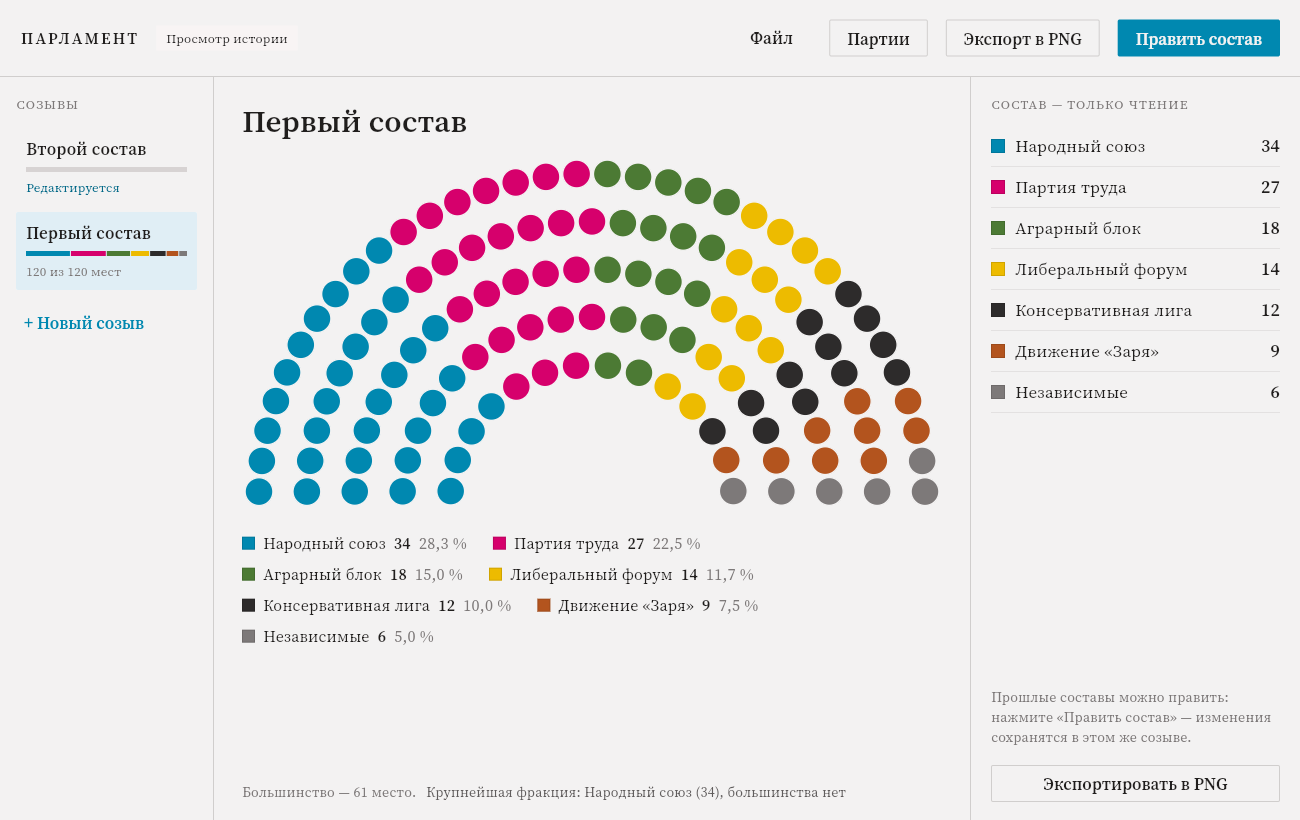
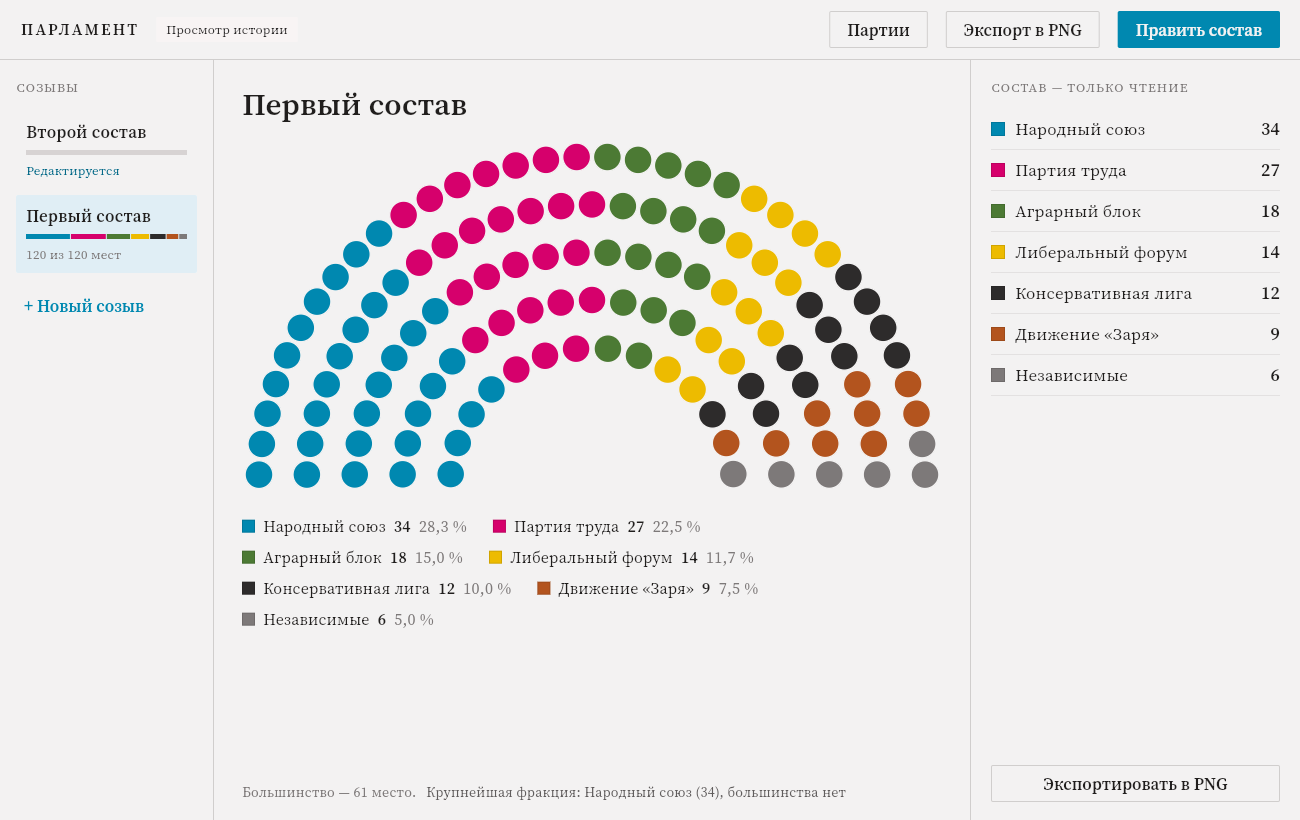
Убраны все поясняющие подписи и функционал «Файл» из шапки
По запросу: везде убраны серые подсказочные фразы, которые просто
повторяют словами то, что и так видно из интерфейса, а также вырезана
кнопка «Файл» (Новый проект / Открыть / Сохранить как).

Убрано:
- «Цвет и название обновляются во всех созывах, где партия участвует.»
  под заголовком справочника партий
- «Справочник пуст. Начните с 3–6 партий...» на пустом экране справочника
- «Прошлые составы можно править: нажмите «Править состав»...» в
  панели архивного созыва
- «Список появится после создания партий. Всего мест — N.» в пустой
  правой панели
- «Места пока не распределены — вся схема серая.» вместо легенды,
  когда распределения нет — теперь просто пусто
- «В этом созыве места не распределялись.» в архивной панели без мест
- хвост «— на схеме они серые» у заметки об остатке мест
- вводная фраза в диалоге фиксации созыва («Текущее распределение
  сохранится в истории...») — сводка и поле говорят сами за себя
- пример-подсказка в диалоге переименования
- половина объяснения в диалоге удаления партии (оставлена только
  фраза-заголовок перед списком затронутых созывов — сам список уже
  всё объясняет)
- кнопка «Файл» в шапке целиком, вместе с открывавшимся по ней меню
  (Новый проект / Открыть / Сохранить как) и показом имени файла рядом
  с логотипом

Слой данных (ParlamentService.new_project/open_project/save_project_as)
не тронут — он не завязан на интерфейс и по-прежнему тестируется
отдельно (добавлен недостающий тест на new_project в test_service.py,
[…]

diff --git a/parlament/ui/app.py b/parlament/ui/app.py
@@ -145,17 +145,8 @@ class ParlamentApp:
                     border_radius=1,
                     content=ft.Text("Просмотр истории", size=theme.fs(11), color=theme.NEUTRAL_900),
                 ))
-            if not self.service.is_default_project:
-                left.append(ft.Text(self.service.path.name, size=theme.fs(12),
-                                    color=theme.NEUTRAL_600, no_wrap=True,
-                                    tooltip=str(self.service.path)))
 
             right = [
-                theme.file_menu_button([
-                    ("Новый проект", self.new_project),
-                    ("Открыть…", self.open_project),
-                    ("Сохранить как…", self.save_project_as),
-                ]),
                 theme.secondary_button("Партии", lambda _e: self.show_parties()),
                 theme.secondary_button(
                     "Экспорт в PNG", lambda _e: self.export_png(),
@@ -381,10 +372,6 @@ class ParlamentApp:
             )
             for party, seats in self.distribution(conv)
         ]
-        if not rows:
-            rows = [ft.Text("В этом созыве места не распределялись.",
-                            size=theme.fs(12), color=theme.NEUTRAL_600)]
-
         return ft.Container(
             width=theme.RAIL_RIGHT_WIDTH,
             padding=ft.Padding.symmetric(horizontal=20, vertical=18),
@@ -395,11 +382,6 @@ class ParlamentApp:
                     ft.Column(rows, spacing=0, scroll=ft.ScrollMode.AUTO),
                     expand=True,
                     padding=ft.Padding.only(top=12),
-                ),
-                ft.Text(
-                    "Прошлые составы можно править: нажмите «Править состав» — "
-                    "изменения сохранятся в этом же созыве.",
-                    size=theme.fs(12), color=theme.NEUTRAL_600,
                 ),
                 ft.Container(
                     padding=ft.Padding.only(top=18),
@@ -414,14 +396,7 @@ class ParlamentApp:
             width=theme.RAIL_RIGHT_WIDTH,
             padding=ft.Padding.symmetric(horizontal=20, vertical=18),
             border=ft.Border.only(left=ft.BorderSide(1, theme.DIVIDER)),
-            content=ft.Column([
-                theme.label("Распределение мест"),
-                ft.Text(
-                    f"Список появится после создания партий. "
-                    f"Всего мест — {self.total_seats}.",
-                    size=theme.fs(13), color=theme.NEUTRAL_600,
-                ),
-            ], spacing=14, tight=True),
+            content=theme.label("Распределение мест"),
         )
 
     # -- точечное обновление ------------------------------------------------
@@ -453,10 +428,7 @@ class ParlamentApp:
                 for party, seats in distribution
             ]
         else:
-            self.legend_row.controls = [
-                ft.Text("Места пока не распределены — вся схема серая.",
-                        size=theme.fs(13), color=theme.NEUTRAL_600)
-            ]
+            self.legend_row.controls = []
 
         largest = distribution[0] if distribution else None
         if largest and largest[1] >= self.majority_seats:
@@ -478,8 +450,7 @@ class ParlamentApp:
             self.progress.value = used / self.total_seats
             self.remaining_note.value = (
                 "Все места распределены." if remaining == 0 else
-                f"Осталось распределить {fmt.pluralize(remaining, fmt.SEATS)} — "
-                "на схеме они серые."
+                f"Осталось распределить {fmt.pluralize(remaining, fmt.SEATS)}."
             )
             self.remaining_note.color = (theme.NEUTRAL_700 if remaining == 0
                                          else theme.ACCENT_2_700)
@@ -725,72 +696,6 @@ class ParlamentApp:
             lambda settings: self.page.run_task(confirm, settings),
             lambda _e: self.close_dialog(),
         ))
-
-    # -- файл проекта -------------------------------------------------------
-
-    def new_project(self) -> None:
-        def confirm(_event) -> None:
-            try:
-                self.service.new_project()
-            except StoreError as error:
-                self.toast(str(error), error=True)
-                return
-            self.close_dialog()
-            self.selected_convocation_id = self.service.project.active_convocation.id
-            self.editing_archived = None
-            self.render()
-            self.toast("Создан новый проект.")
-
-        self.page.show_dialog(dialogs._shell(
-            "Новый проект",
-            [ft.Text("Начать новый проект?\n\nТекущий уже сохранён в своём файле — "
-                     "открыть его снова можно через «Файл → Открыть».",
-                     size=theme.fs(14), color=theme.TEXT)],
-            [theme.secondary_button("Отмена", lambda _e: self.close_dialog()),
-             theme.primary_button("Начать новый", confirm)],
-        ))
-
-    def open_project(self) -> None:
-        async def pick() -> None:
-            files = await self.file_picker.pick_files(
-                dialog_title="Открыть проект",
-                allowed_extensions=["json"],
-                allow_multiple=False,
-            )
-            if not files:
-                return
-            try:
-                self.service.open_project(files[0].path)
-            except StoreError as error:
-                self.toast(str(error), error=True)
-                return
-            self.selected_convocation_id = self.service.project.active_convocation.id
-            self.editing_archived = None
-            self.render()
-            self.toast(f"Открыт проект «{self.service.path.name}».")
-
-        self.page.run_task(pick)
-
-    def save_project_as(self) -> None:
-        async def pick() -> None:
-            suggested = ("Парламент.parlament.json" if self.service.is_default_project
-                         else self.service.path.name)
-            path = await self.file_picker.save_file(
-                dialog_title="Сохранить проект как",
-                file_name=suggested,
-                allowed_extensions=["json"],
-            )
-            if not path:
-                return
-            try:
-                self.service.save_project_as(path)
-            except StoreError as error:
-                self.toast(str(error), error=True)
-                return
-            self.render()
-            self.toast(f"Проект сохранён как «{self.service.path.name}».")
-
-        self.page.run_task(pick)
 
     # -- прочее -------------------------------------------------------------
 

diff --git a/tests/test_app.py b/tests/test_app.py
@@ -76,22 +76,16 @@ class AppTestCase(unittest.TestCase):
 
 
 class TestAppBar(AppTestCase):
-    """Электроновский ряд «Файл · Правка · Справка» убран; операции с файлом
-    проекта переехали в компактное выпадающее меню «Файл»."""
+    """Ни электроновского ряда «Файл · Правка · Справка», ни заменившего его
+    выпадающего меню «Файл» в шапке нет — проект всегда работает с одним,
+    автоматически сохраняемым файлом."""
 
     def test_no_leftover_menu_bar(self):
         self.assertIsNone(find(self.body, lambda c: isinstance(c, ft.MenuBar)))
 
-    def test_file_menu_offers_project_actions(self):
-        menu = find(self.body, lambda c: isinstance(c, ft.PopupMenuButton))
-        self.assertIsNotNone(menu)
-        self.assertEqual([t for item in menu.items for t in texts(item)],
-                         ["Новый проект", "Открыть…", "Сохранить как…"])
-
-    def test_file_menu_new_project_opens_confirmation(self):
-        menu = find(self.body, lambda c: isinstance(c, ft.PopupMenuButton))
-        menu.items[0].on_click(None)
-        self.assertEqual(self.page.dialog.title.value, "Новый проект")
+    def test_no_file_menu(self):
+        self.assertIsNone(find(self.body, lambda c: isinstance(c, ft.PopupMenuButton)))
+        self.assertNotIn("Файл", texts(self.body))
 
 
 class TestFirstRun(AppTestCase):
@@ -103,9 +97,9 @@ class TestFirstRun(AppTestCase):
     def test_empty_state_copy(self):
         shown = texts(self.body)
         self.assertIn("Партий пока нет", shown)
-        # Поясняющий абзац убран — заголовок и кнопка говорят всё нужное сами.
+        # Поясняющие абзацы убраны — заголовок и кнопка говорят всё нужное сами.
         self.assertFalse(any("Создайте 3–6 партий" in t for t in shown))
-        self.assertTrue(any("Список появится после создания партий" in t for t in shown))
+        self.assertFalse(any("Список появится после создания партий" in t for t in shown))
 
     def test_empty_state_button_opens_parties_screen(self):
         # Кнопка не открывает диалог создания партии, а просто ведёт
@@ -272,7 +266,6 @@ class TestParties(AppTestCase):
         self.app.delete_party(party)
         shown = texts(self.page.dialog)
         self.assertTrue(any("Удалить «Независимые»?" in t for t in shown))
-        self.assertTrue(any("участвует в 1 созыве" in t for t in shown))
         self.assertTrue(any("Первый состав — 6 мест" in t for t in shown))
 
     def test_delete_frees_seats_everywhere(self):
@@ -345,7 +338,6 @@ class TestConvocations(AppTestCase):
         shown = texts(self.body)
         self.assertIn("СОСТАВ — ТОЛЬКО ЧТЕНИЕ", shown)
         self.assertIn("Просмотр истории", shown)
-        self.assertTrue(any("сохранятся в этом же созыве" in t for t in shown))
 
         self.app.edit_archived()
         self.assertTrue(self.app.is_editable)
@@ -482,24 +474,13 @@ class TestProjectFile(AppTestCase):
         self.assertEqual(len(again.project.parties), 7)
         self.assertEqual(sum(again.project.active_convocation.seats.values()), 120)
 
-    def test_new_project_starts_clean(self):
-        self.distribute()
-        self.app.new_project()
-        find(self.page.dialog, lambda c: isinstance(c, ft.Button)
-             and c.content == "Начать новый").on_click(None)
-
-        self.assertEqual(self.app.parties, [])
-        self.assertEqual(len(self.app.convocations), 1)
-        self.assertIn("Партий пока нет", texts(self.body))
-
-    def test_save_as_switches_target(self):
+    def test_keeps_saving_to_whatever_file_the_service_points_at(self):
+        """У интерфейса нет своего меню «Файл» — за выбор файла целиком
+        отвечает `service`, а окно просто отражает то, что в нём открыто."""
         self.distribute()
         other = self.path.parent / "вторая-игра.parlament.json"
         self.service.save_project_as(other)
         self.app.render()
-
-        self.assertFalse(self.service.is_default_project)
-        self.assertIn("вторая-игра.parlament.json", texts(self.body))
 
         self.type_seats(self.app.parties[0].id, "30")
         reopened = ParlamentService(other)

diff --git a/parlament/ui/dialogs.py b/parlament/ui/dialogs.py
@@ -317,19 +317,10 @@ def _open_custom_color_dialog(page: ft.Page, current: str,
 
 def delete_party_dialog(party: Party, usage: list[dict], plural: Callable,
                         on_confirm: Callable, on_cancel: Callable) -> ft.AlertDialog:
-    count = len(usage)
-    if count:
-        explanation = (
-            f"Партия участвует в {count} "
-            f"{plural(count, ['созыве', 'созывах', 'созывах'])}. "
-            "После удаления её места в этих составах станут нераспределёнными."
-        )
-    else:
-        explanation = ("Партия не участвует ни в одном созыве — "
-                       "удаление ничего не изменит в истории.")
-
-    body: list[ft.Control] = [ft.Text(explanation, size=theme.fs(14), color=theme.TEXT)]
+    body: list[ft.Control] = []
     if usage:
+        body.append(ft.Text("Места партии станут нераспределёнными:",
+                            size=theme.fs(14), color=theme.TEXT))
         body.append(ft.Container(
             bgcolor=theme.BG,
             padding=ft.Padding.symmetric(horizontal=12, vertical=10),
@@ -367,11 +358,6 @@ def new_convocation_dialog(current: Convocation, suggested_name: str, used: int,
     return _shell(
         f"Зафиксировать {current.name}?",
         [
-            ft.Text(
-                f"Текущее распределение сохранится в истории, "
-                f"и откроется пустой {suggested_name}.",
-                size=theme.fs(14), color=theme.TEXT,
-            ),
             ft.Container(
                 bgcolor=theme.BG,
                 padding=ft.Padding.symmetric(horizontal=12, vertical=10),
@@ -400,11 +386,7 @@ def rename_dialog(convocation: Convocation, on_confirm: Callable[[str], None],
     field = theme.text_field(convocation.name, label_text="Название", autofocus=True)
     return _shell(
         "Переименовать созыв",
-        [
-            ft.Text("Например: «Третий состав (кризисные выборы)».",
-                    size=theme.fs(14), color=theme.NEUTRAL_700),
-            field,
-        ],
+        [field],
         [_cancel(on_cancel),
          theme.primary_button("Сохранить", lambda _e: on_confirm(field.value))],
         width=440,

diff --git a/parlament/ui/parties_view.py b/parlament/ui/parties_view.py
@@ -25,13 +25,8 @@ class PartiesView:
             expand=True,
             padding=ft.Padding.symmetric(horizontal=40, vertical=24),
             content=ft.Column([
-                ft.Row([
-                    ft.Text(fmt.pluralize(len(parties), fmt.PARTIES_COUNT),
-                            size=theme.fs(22), font_family=theme.FONT_SEMIBOLD, color=theme.TEXT),
-                    ft.Text("Цвет и название обновляются во всех созывах, "
-                            "где партия участвует.",
-                            size=theme.fs(13), color=theme.NEUTRAL_600),
-                ], spacing=14, vertical_alignment=ft.CrossAxisAlignment.END),
+                ft.Text(fmt.pluralize(len(parties), fmt.PARTIES_COUNT),
+                        size=theme.fs(22), font_family=theme.FONT_SEMIBOLD, color=theme.TEXT),
                 ft.Container(content, expand=True, padding=ft.Padding.only(top=16)),
             ], spacing=0, expand=True),
         )
@@ -105,10 +100,5 @@ class PartiesView:
         return ft.Container(
             padding=ft.Padding.only(top=40),
             alignment=ft.Alignment.TOP_CENTER,
-            content=ft.Column([
-                ft.Text("Справочник пуст. Начните с 3–6 партий — их можно будет "
-                        "переименовать и перекрасить в любой момент.",
-                        size=theme.fs(14), color=theme.NEUTRAL_700, text_align=ft.TextAlign.CENTER),
-                theme.primary_button("Новая партия", lambda _e: self.app.new_party()),
-            ], spacing=16, horizontal_alignment=ft.CrossAxisAlignment.CENTER, tight=True),
+            content=theme.primary_button("Новая партия", lambda _e: self.app.new_party()),
         )

diff --git a/parlament/ui/theme.py b/parlament/ui/theme.py
@@ -7,7 +7,6 @@
 from __future__ import annotations
 
 from pathlib import Path
-from typing import Callable
 
 import flet as ft
 
@@ -202,32 +201,6 @@ def secondary_button(text: str, on_click, disabled: bool = False,
         expand=expand,
         tooltip=tooltip,
         style=_button_style(ft.Colors.TRANSPARENT, TEXT, "#14201e1d", border=DIVIDER),
-    )
-
-
-def file_menu_button(items: list[tuple[str, Callable]]) -> ft.PopupMenuButton:
-    """Кнопка «Файл» — открывает и сохраняет проект. Выглядит как secondary_button,
-    но по клику показывает список действий, а не выполняет одно.
-
-    :param items: пары «подпись — обработчик» в порядке показа
-    """
-    return ft.PopupMenuButton(
-        content=ft.Container(
-            padding=ft.Padding.symmetric(horizontal=18, vertical=15),
-            content=ft.Text("Файл", size=fs(14), font_family=FONT_SEMIBOLD, color=TEXT),
-        ),
-        bgcolor=SURFACE,
-        shadow_color=ft.Colors.TRANSPARENT,
-        elevation=2,
-        shape=ft.RoundedRectangleBorder(radius=RADIUS),
-        padding=0,
-        items=[
-            ft.PopupMenuItem(
-                content=ft.Text(label, size=fs(13), color=TEXT),
-                on_click=lambda _e, h=handler: h(),
-            )
-            for label, handler in items
-        ],
     )
 
 

diff --git a/tests/test_service.py b/tests/test_service.py
@@ -243,6 +243,18 @@ class TestPersistence(ServiceTestCase):
         again.bootstrap()
         self.assertEqual(again.project.active_convocation.used_seats(), 55)
 
+    def test_new_project_starts_clean_and_persists(self):
+        self.party()
+        self.service.set_seats(self.active_id, self.service.project.parties[0].id, 40)
+
+        self.service.new_project()
+
+        self.assertEqual(self.service.project.parties, [])
+        self.assertEqual(len(self.service.project.convocations), 1)
+        self.assertEqual(self.service.path, self.service.default_path)
+        # Чистый проект тоже сразу лёг на диск, а не только в памяти.
+        self.assertEqual(load(self.path).parties, [])
+
     def test_save_as_switches_target_file(self):
         other = self.path.parent / "другая-игра.parlament.json"
         self.party()
